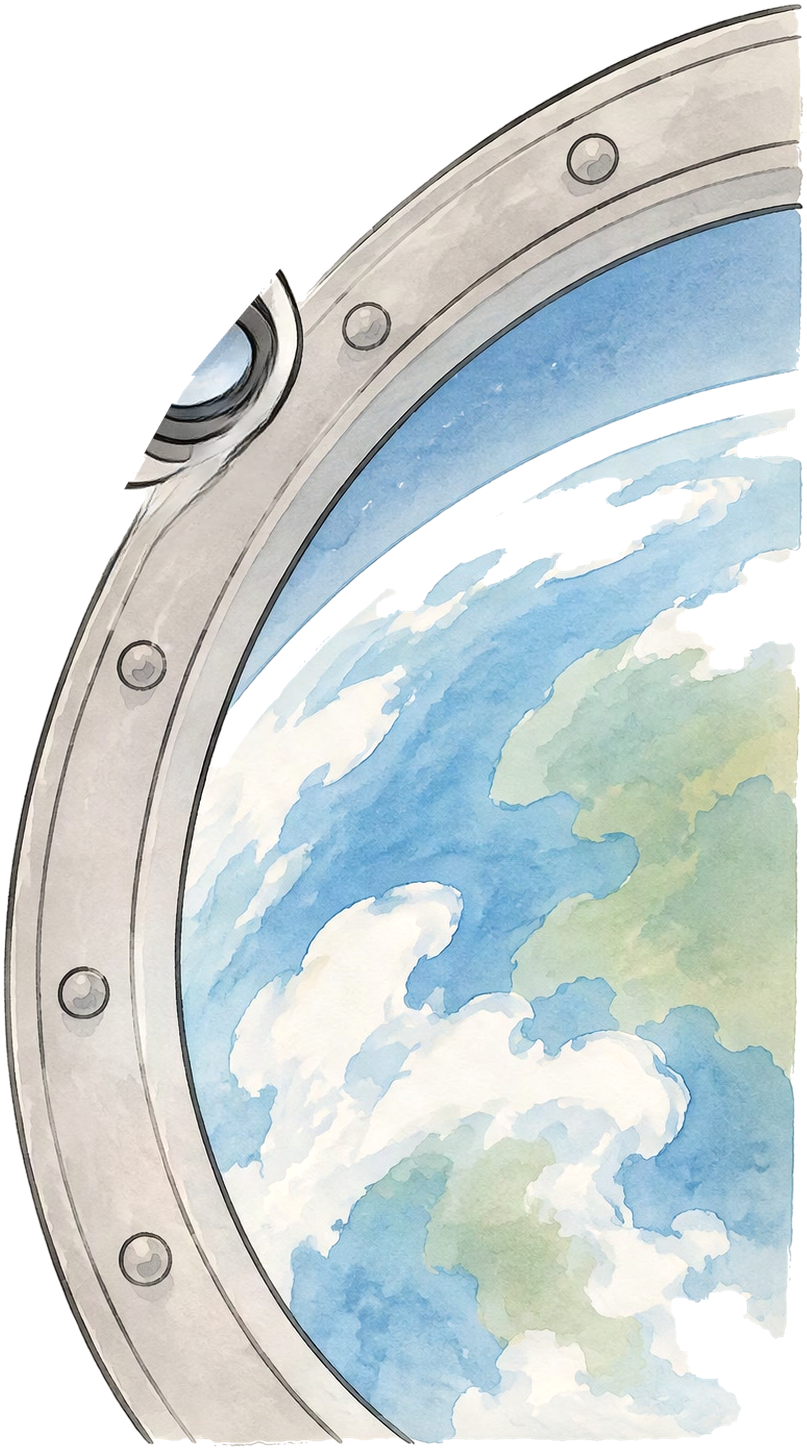
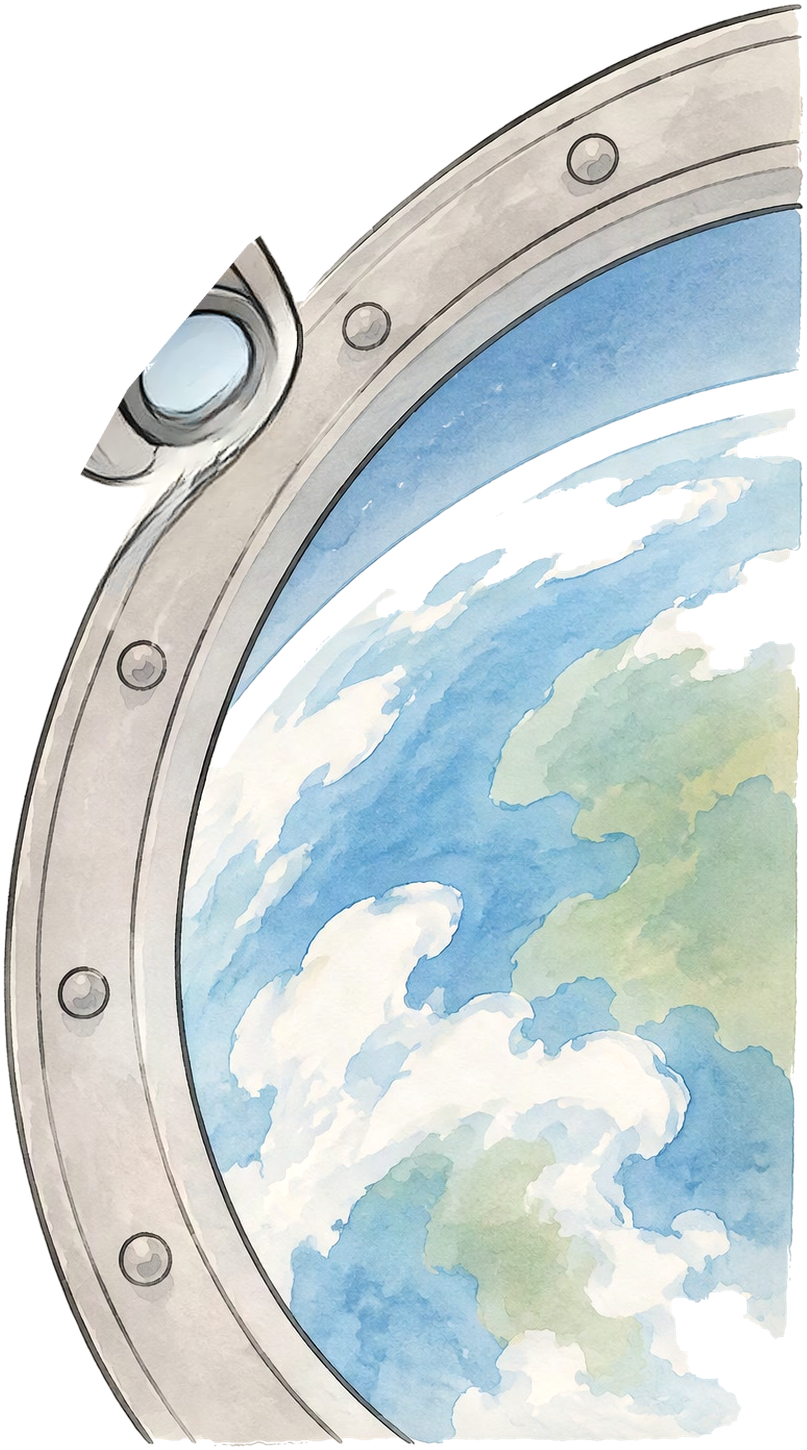
Dispatcher heartbeat; 53 rendered locally by dispatcher
Claude-Session: https://claude.ai/code/session_01WL83YHdupNJiw52fjyDVVG

Changed region(s): [[0.0929, 0.1552, 0.3717, 0.4034]]

diff --git a/videos/54_mif_stena/reel/anim/kit_space.py b/videos/54_mif_stena/reel/anim/kit_space.py
@@ -62,21 +62,25 @@ def main():
     core = anim.keep_attached(ink)
     cat = (fill_holes(core) & reg).astype(np.uint8)
     cat |= (ink & ~cv2.dilate(cat, np.ones((3, 3), np.uint8))).astype(np.uint8)       # капля, усы — мазки рядом с котом
+    ext = poly_mask(A.shape, P([(560, 600), (604, 600), (604, 765), (556, 785)]))          # край линз бинокля за основной рамкой кота
+    lens = cv2.morphologyEx((((g < 120) | (sat > 40)) & (ext > 0)).astype(np.uint8), cv2.MORPH_CLOSE, np.ones((9, 9), np.uint8))
+    lens = fill_holes(lens) & ext
+    cat = anim.keep_attached((cat | lens).astype(np.uint8), reach=4)
     qx0, qy0, qx1, qy1 = Q_BOX
     qreg = np.zeros_like(cat); qreg[qy0:qy1, qx0:qx1] = 1
     q = cv2.morphologyEx(((g < 200) & (qreg > 0)).astype(np.uint8), cv2.MORPH_CLOSE, np.ones((9, 9), np.uint8))
     q = anim.keep_attached(q)
     preg = poly_mask(A.shape, PORT)
     pn = cv2.morphologyEx(non & preg, cv2.MORPH_CLOSE, np.ones((15, 15), np.uint8)) & preg
-    port = (fill_holes(pn) & preg).astype(np.uint8)
-    port = anim.keep_attached(port, reach=40)
-    port &= ~cv2.dilate(cat, np.ones((3, 3), np.uint8))           # там, где кот закрывает иллюминатор, слой не нужен — его дорисует LaMa
+    cdil = cv2.dilate(cat, np.ones((33, 33), np.uint8))
+    pc = anim.keep_attached((pn & (1 - cdil)).astype(np.uint8), reach=40)
+    hull = cv2.convexHull(np.argwhere(pc.T > 0).astype(np.int32))        # иллюминатор выпуклый: белое небо и облака внутри — тоже слой
+    port = np.zeros_like(cat); cv2.fillPoly(port, [hull], 1); port &= preg
     # под котом иллюминатор дорисован целиком: для слоя планеты — без кота; для фона — без обоих
-    cat_hole = cv2.dilate(cat, np.ones((9, 9), np.uint8)) > 0
+    cat_hole = cv2.dilate(cat, np.ones((33, 33), np.uint8)) > 0
     port_full = anim.inpaint_bg(A, cat_hole & (preg > 0), cache_dir=CACHE) if (cat_hole & (preg > 0)).any() else A
     port_full = np.where((preg > 0)[..., None], port_full, A)
-    port_mask = (fill_holes(pn | (cv2.dilate(cat, np.ones((9, 9), np.uint8)) & preg)) & preg).astype(np.uint8)
-    port_mask = anim.keep_attached(port_mask, reach=40)
+    port_mask = port
     bg = A.copy()
     for m in (cat, q, port_mask):
         hole = cv2.dilate(m, np.ones((17, 17), np.uint8)) > 0
